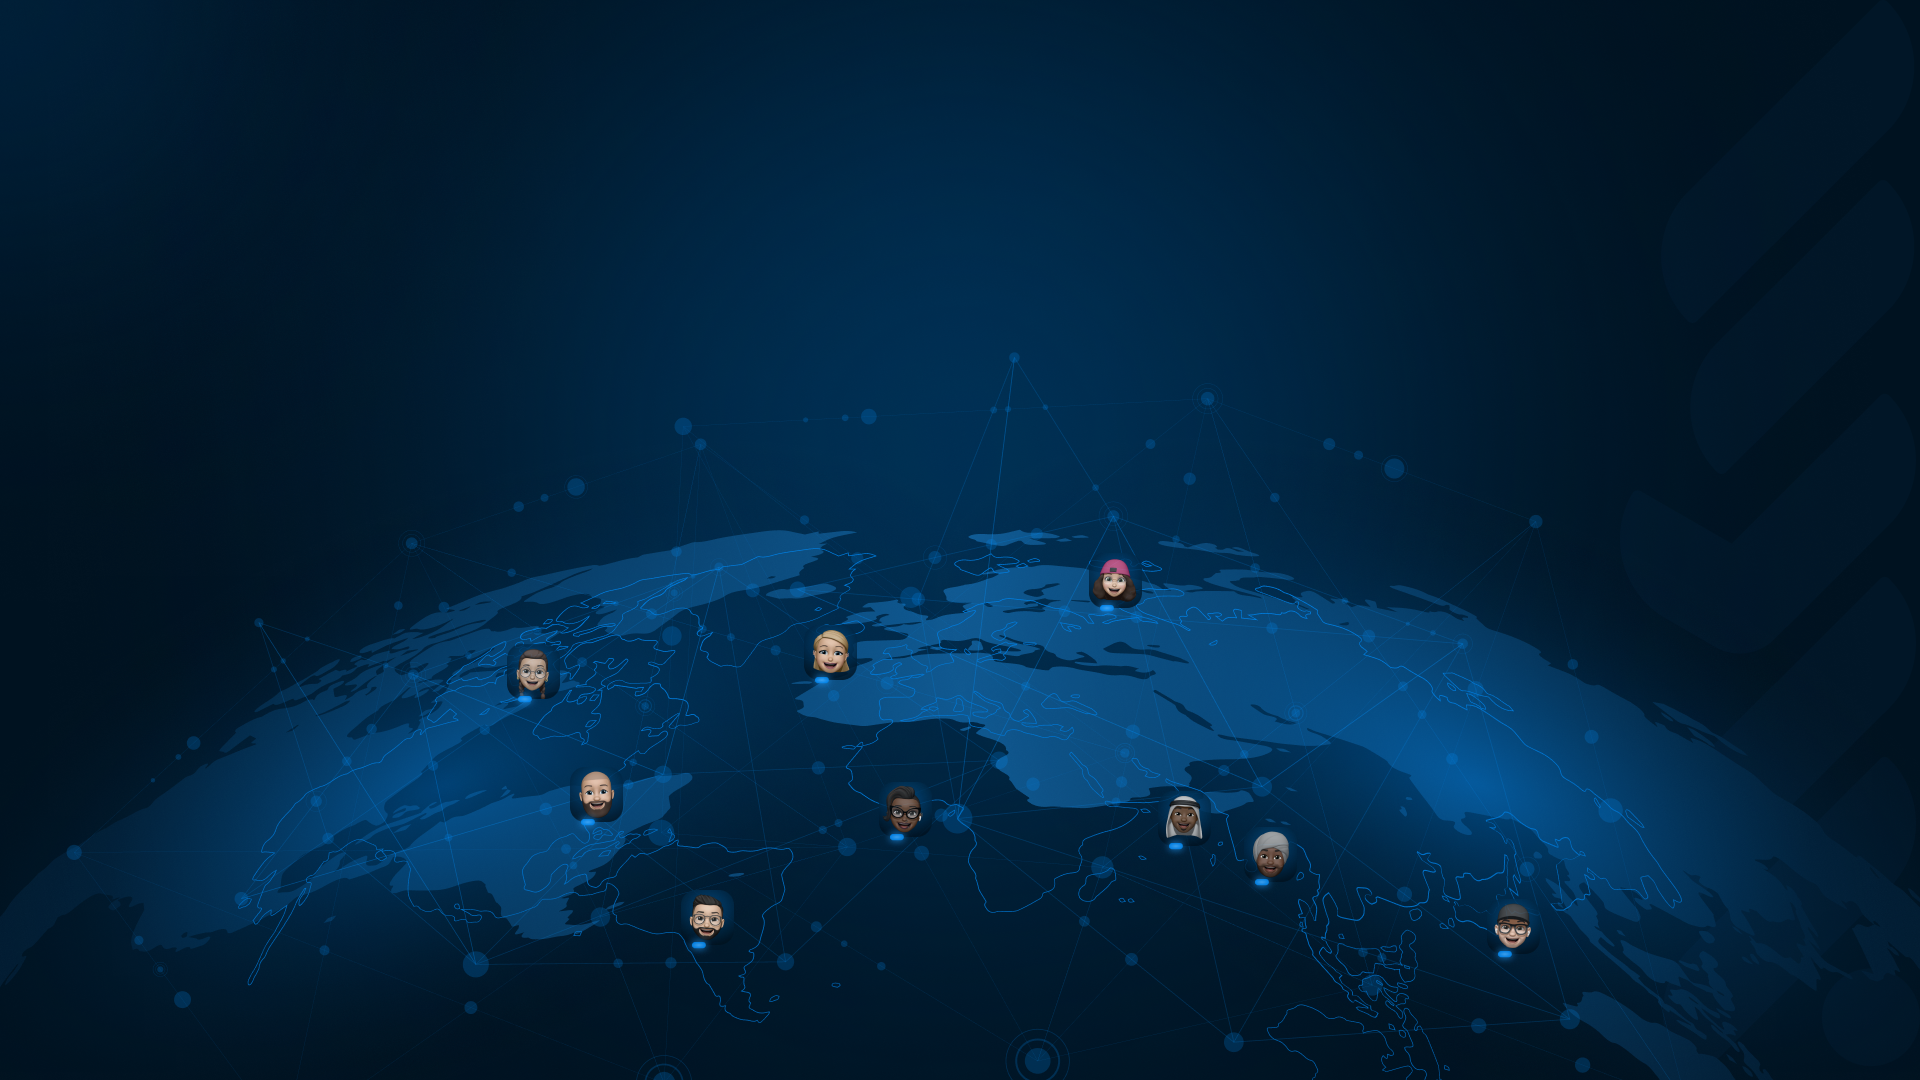
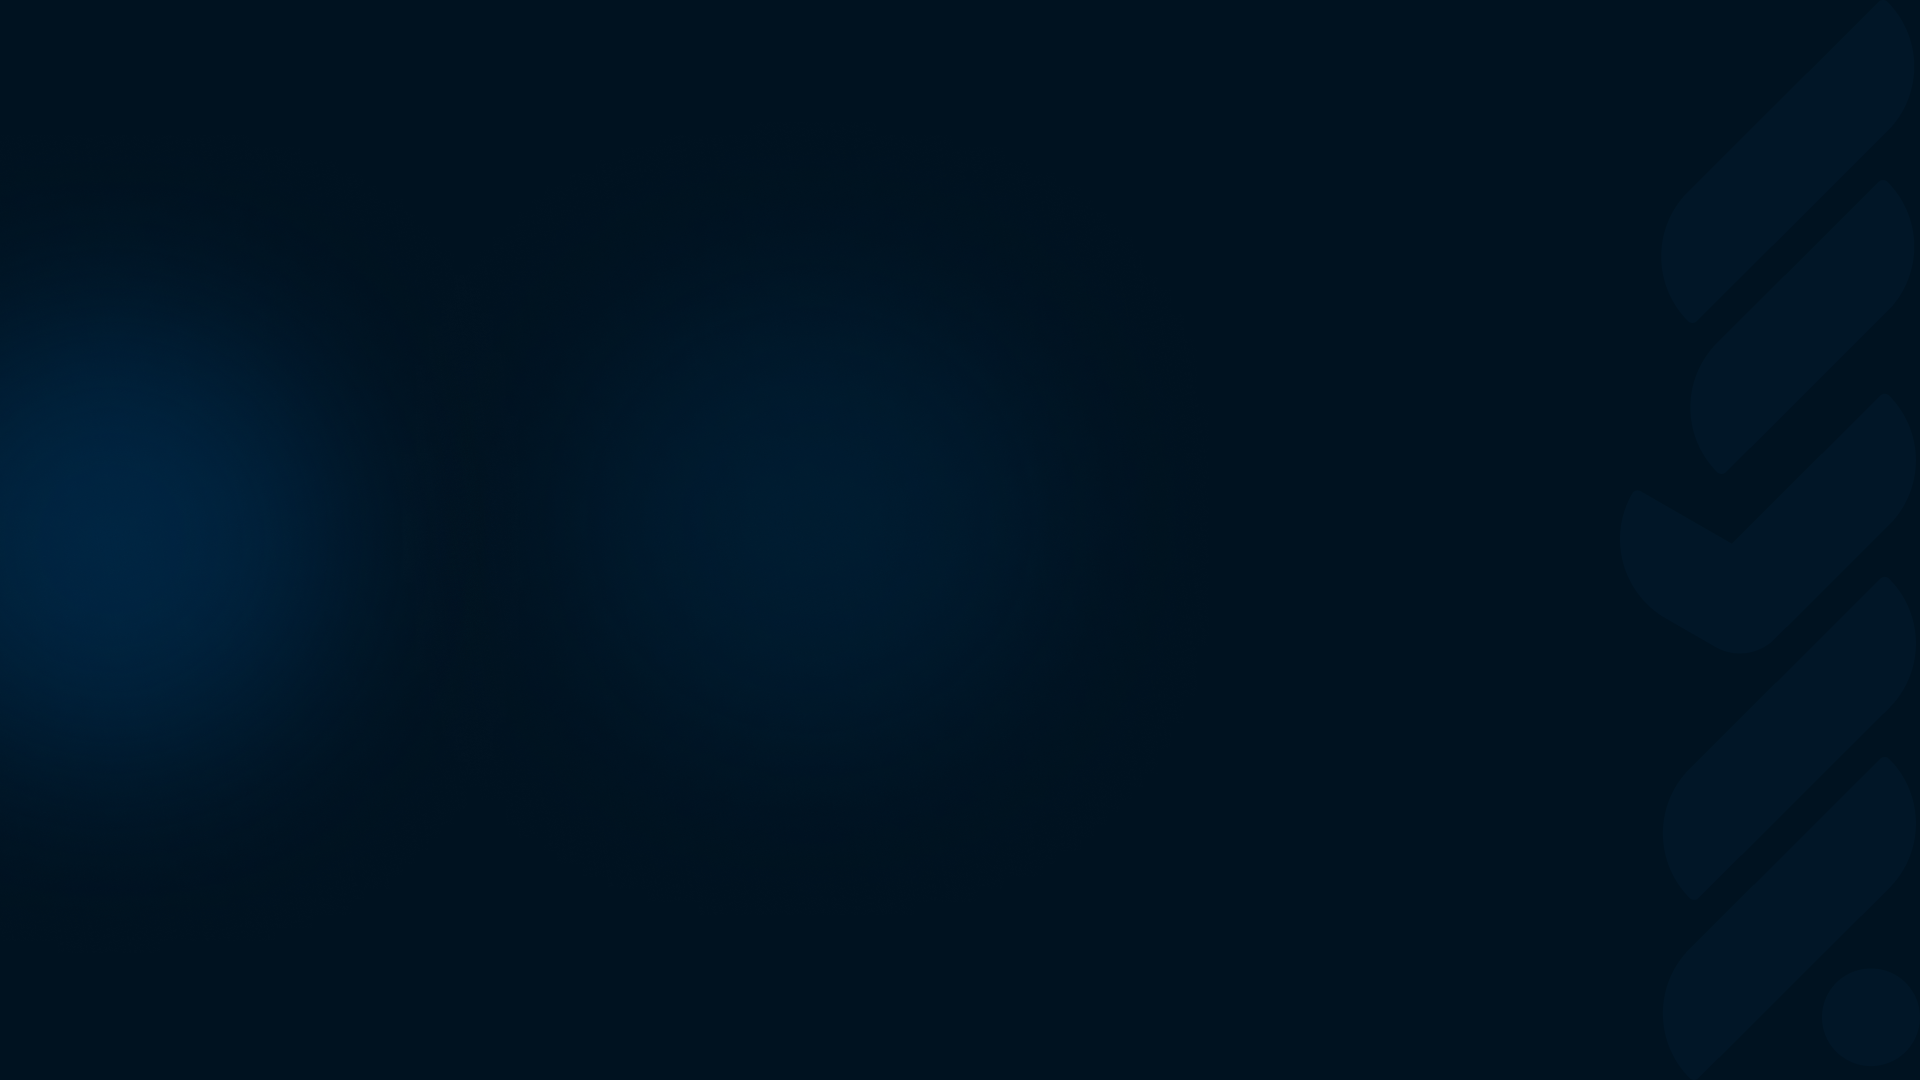
fixes bg more

diff --git a/src/app/homepage/shared/components/map/map.component.scss b/src/app/homepage/shared/components/map/map.component.scss
@@ -4,6 +4,10 @@
   margin-top: -2px;
   background-size: cover;
   min-height: 1080px;
+  & .map__image {
+    width: 100%;
+    max-width: 100%;
+  }
 }
 .map {
   width: 100%;
@@ -48,9 +52,15 @@
   }
   .map__wrapper {
     background-position: 34%;
-    min-height: 705px !important;
+    min-height: 505px !important;
   }
   .desctop__only {
     display: none;
   }
+  // .map__image {
+  //   width: 100%;
+  //   margin-top: 250px;
+  //   overflow-x: hidden !important;
+  //   transform: scale(3);
+  // }
 }

diff --git a/src/app/homepageru/shared/components/map-ru/map-ru.component.html b/src/app/homepageru/shared/components/map-ru/map-ru.component.html
@@ -12,4 +12,7 @@
       Monterkist media является крупным международным работодателем.
     </div>
   </div>
+  <div class="map__image">
+    <img class="map__image" src="assets/glob.png" />
+  </div>
 </div>

diff --git a/src/app/homepage/shared/components/map/map.component.html b/src/app/homepage/shared/components/map/map.component.html
@@ -12,4 +12,7 @@
       Montekrist media is a major international employer.
     </div>
   </div>
+  <div class="map__image">
+    <img class="map__image" src="assets/glob.png" />
+  </div>
 </div>
